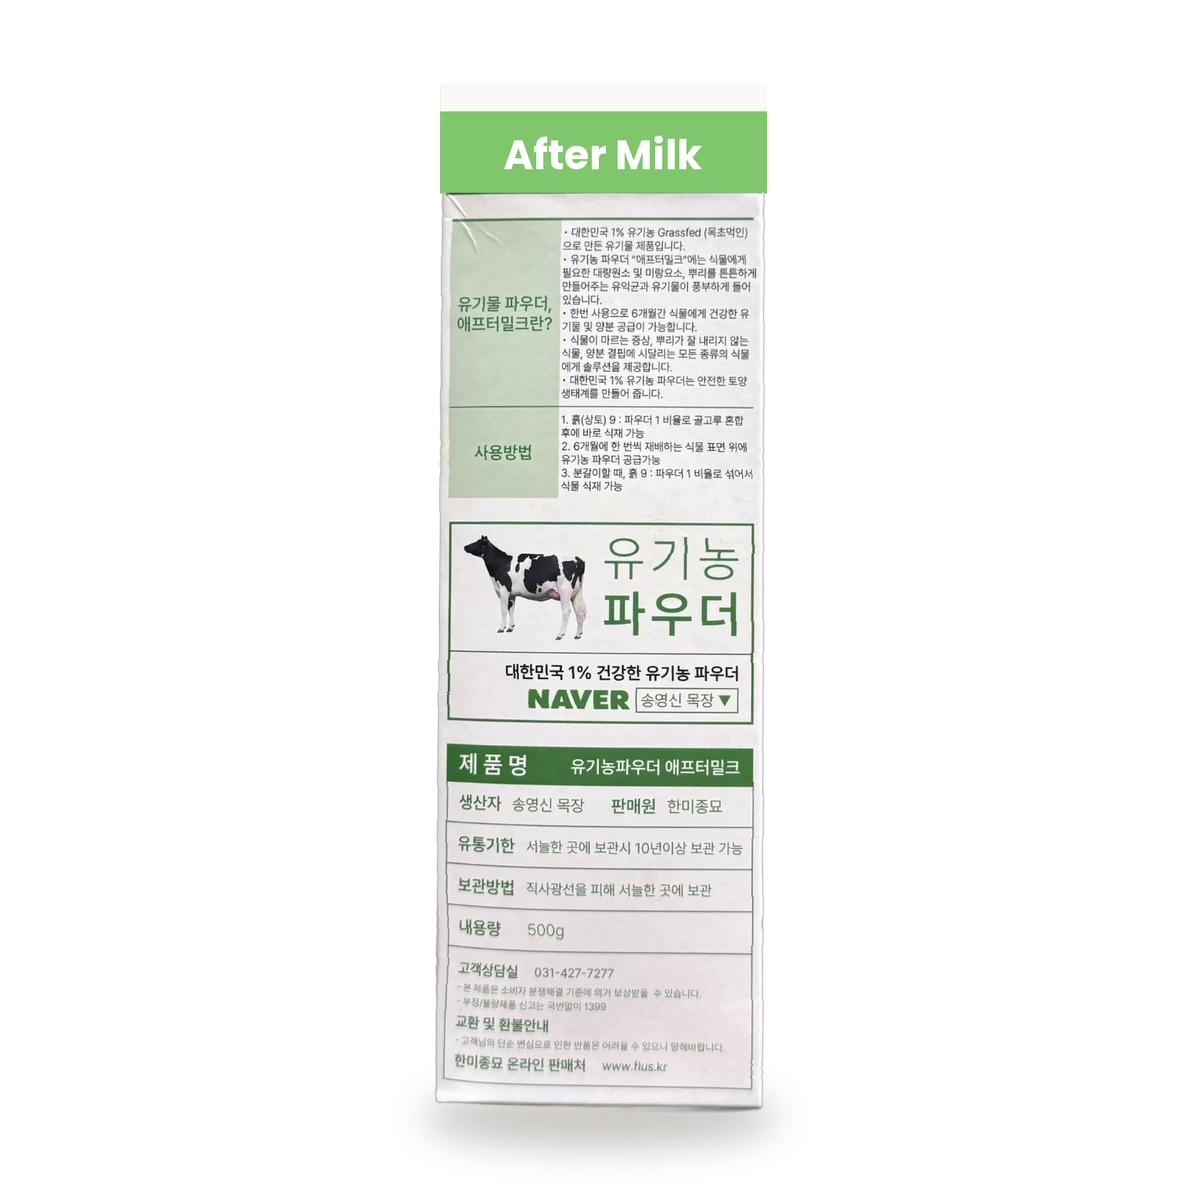
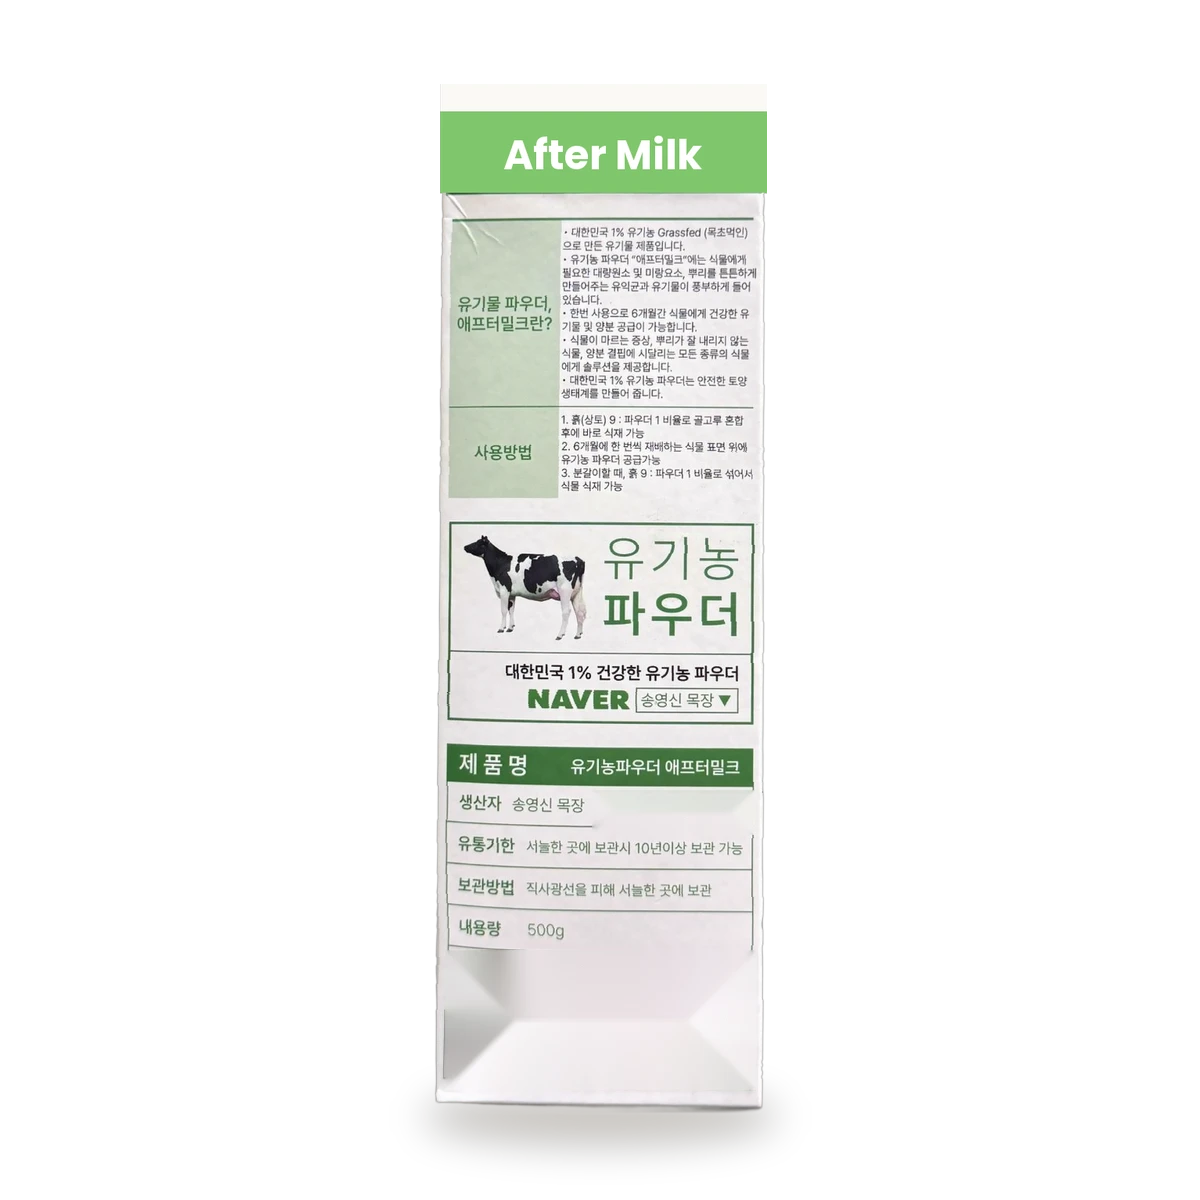
fix(aftermilk): 이미지·표기에서 Ball사·한미종묘 제거 — 송영신목장 직접 판매 (#158)
* fix(aftermilk): 섹션 제목에서 '반려식물 전용 퇴비'를 주 강조로

- 제목 강조 반전: 골드 강조를 제품명(애프터밀크)에서 카테고리
  (반려식물 전용 퇴비)로 옮기고 두 줄 구성으로 크게.
- 리드 카피에 '반려식물만을 위해 만든 전용 퇴비' 강조 추가.

Claude-Session: https://claude.ai/code/session_01C1mbHJGrM3ib5fgJccdtAc

* fix(aftermilk): 이미지·표기에서 Ball사·한미종묘 제거 — 송영신목장 직접 판매

- 구 패키지 표기 정리(현재는 목장 직접 판매):
  정면 컷의 Ball 로고, 제품정보 컷의 '판매원 한미종묘'와 하단
  고객상담실(한미종묘)·온라인 판매처 블록을 인페인팅으로 제거.
- 제품 데이터: 제조·판매원 '송영신목장 (직접 생산·판매)',
  하이라이트 출처 문구 '송영신목장 직접 생산 · 직접 판매'로 갱신.

Claude-Session: https://claude.ai/code/session_01C1mbHJGrM3ib5fgJccdtAc

---------

Changed region(s): [[0.37, 0.7708, 0.5858, 0.925], [0.4933, 0.6475, 0.6167, 0.6783]]

diff --git a/lib/products.ts b/lib/products.ts
@@ -461,7 +461,7 @@ export const PRODUCTS: Product[] = [
       content: "500g (1L 카톤)",
       storage: "직사광선을 피해 서늘한 곳에 보관",
       packaging: "종이팩",
-      maker: "생산자 송영신목장 · 판매원 한미종묘",
+      maker: "송영신목장 (직접 생산·판매)",
       shelf: "서늘한 곳 보관 시 10년 이상 사용 가능",
     },
     highlights: {
@@ -472,7 +472,7 @@ export const PRODUCTS: Product[] = [
         { k: "지속", v: "물을 줄 때마다 천천히, ~6개월~ 양분 공급." },
         { k: "대상", v: "실내정원 · 화분의 *모든 반려식물*." },
       ],
-      proof: "생산 송영신목장 · 판매 한미종묘",
+      proof: "송영신목장 직접 생산 · 직접 판매",
     },
     signature: {
       topLabel: "한 번 사용, 양분 공급",
